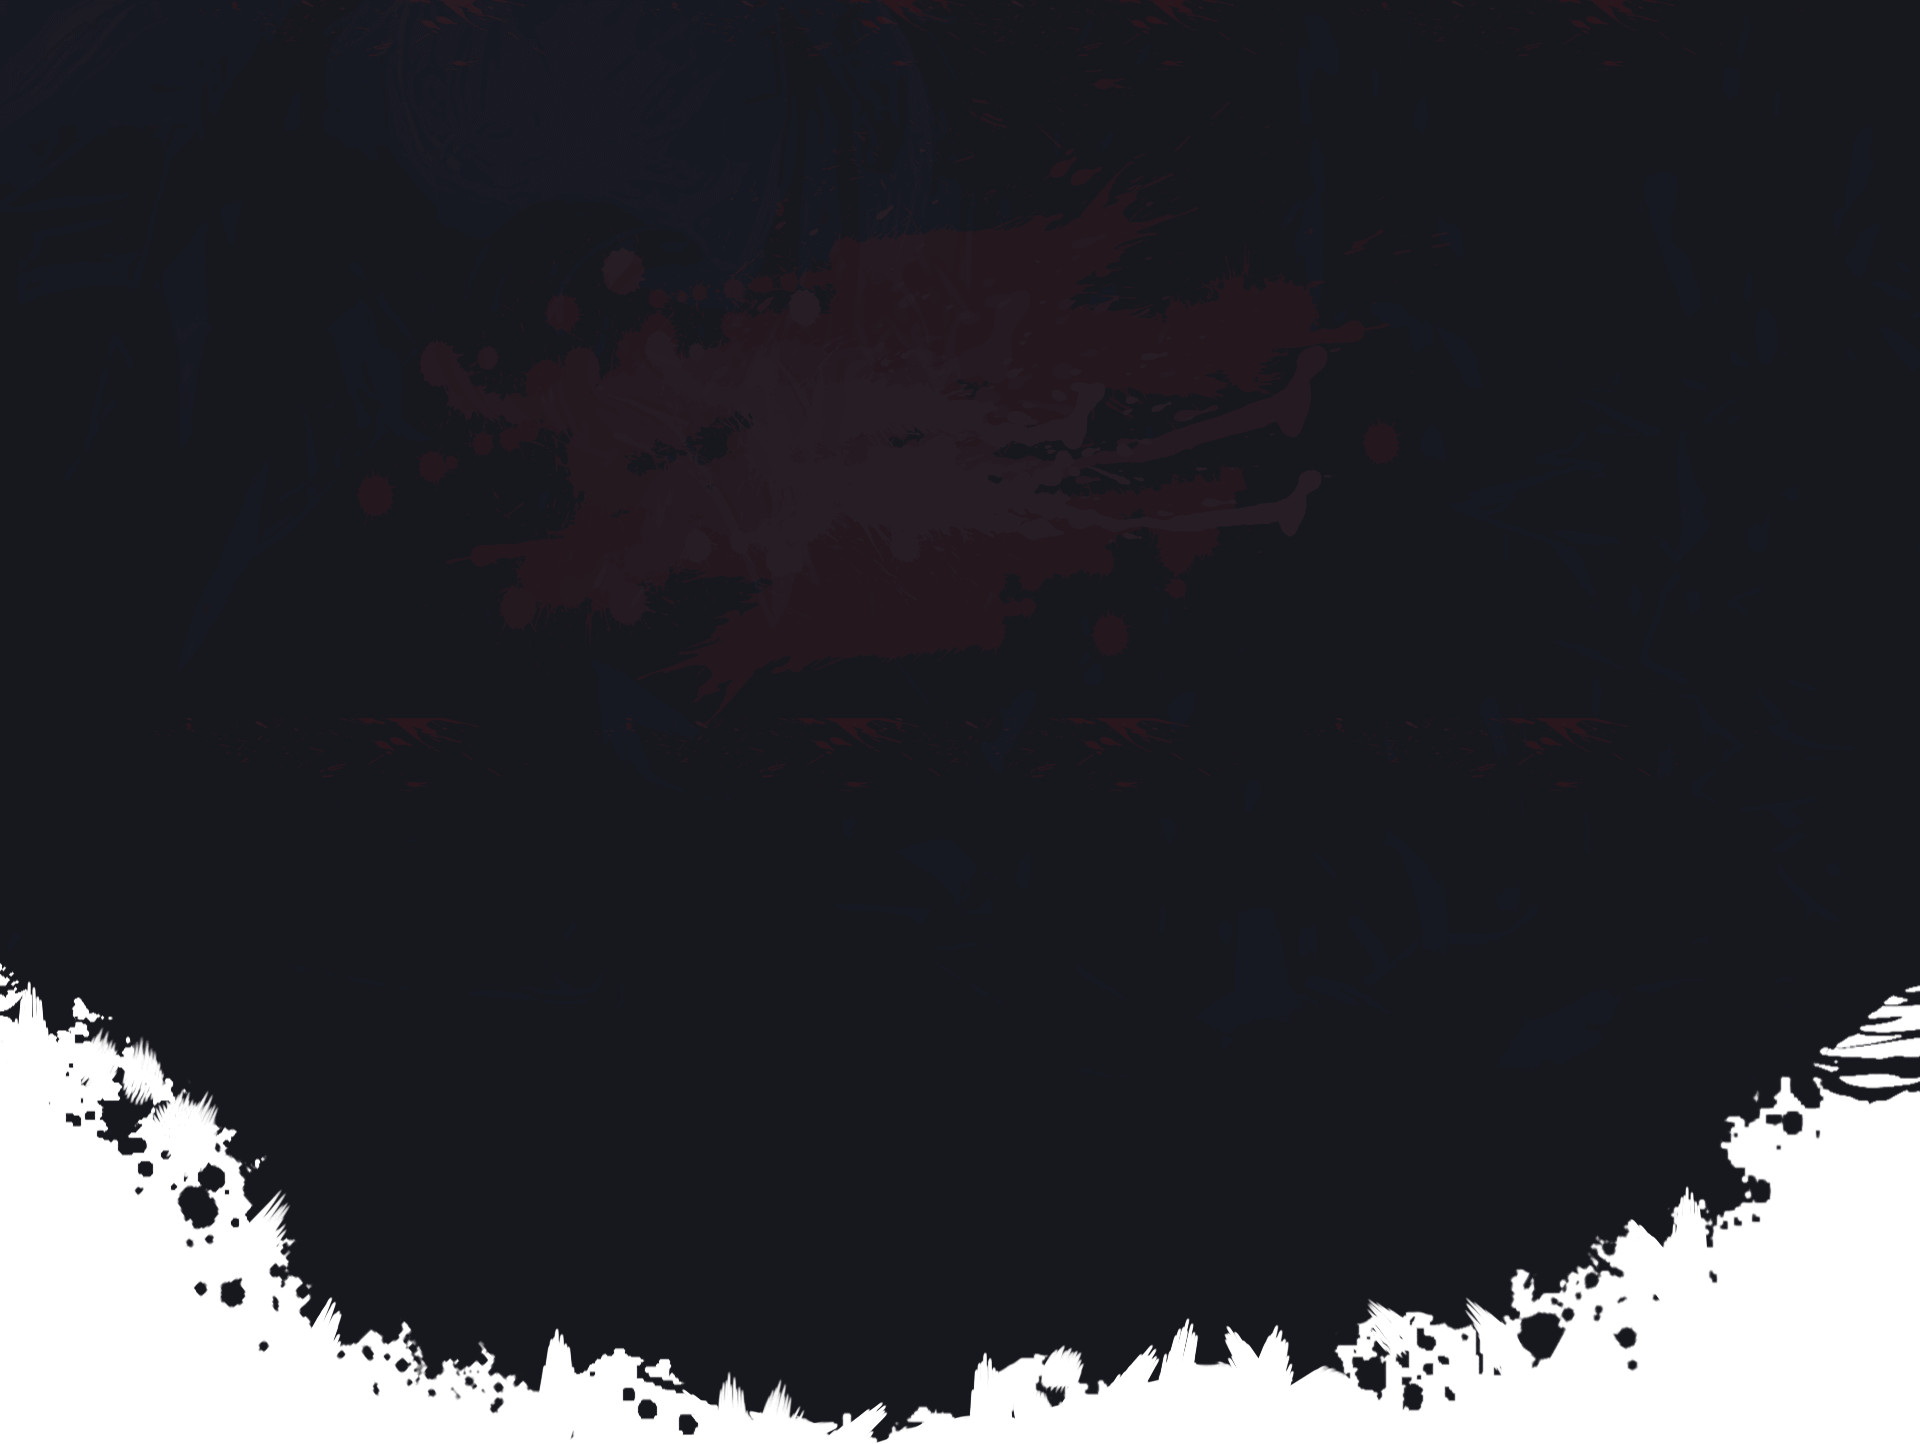
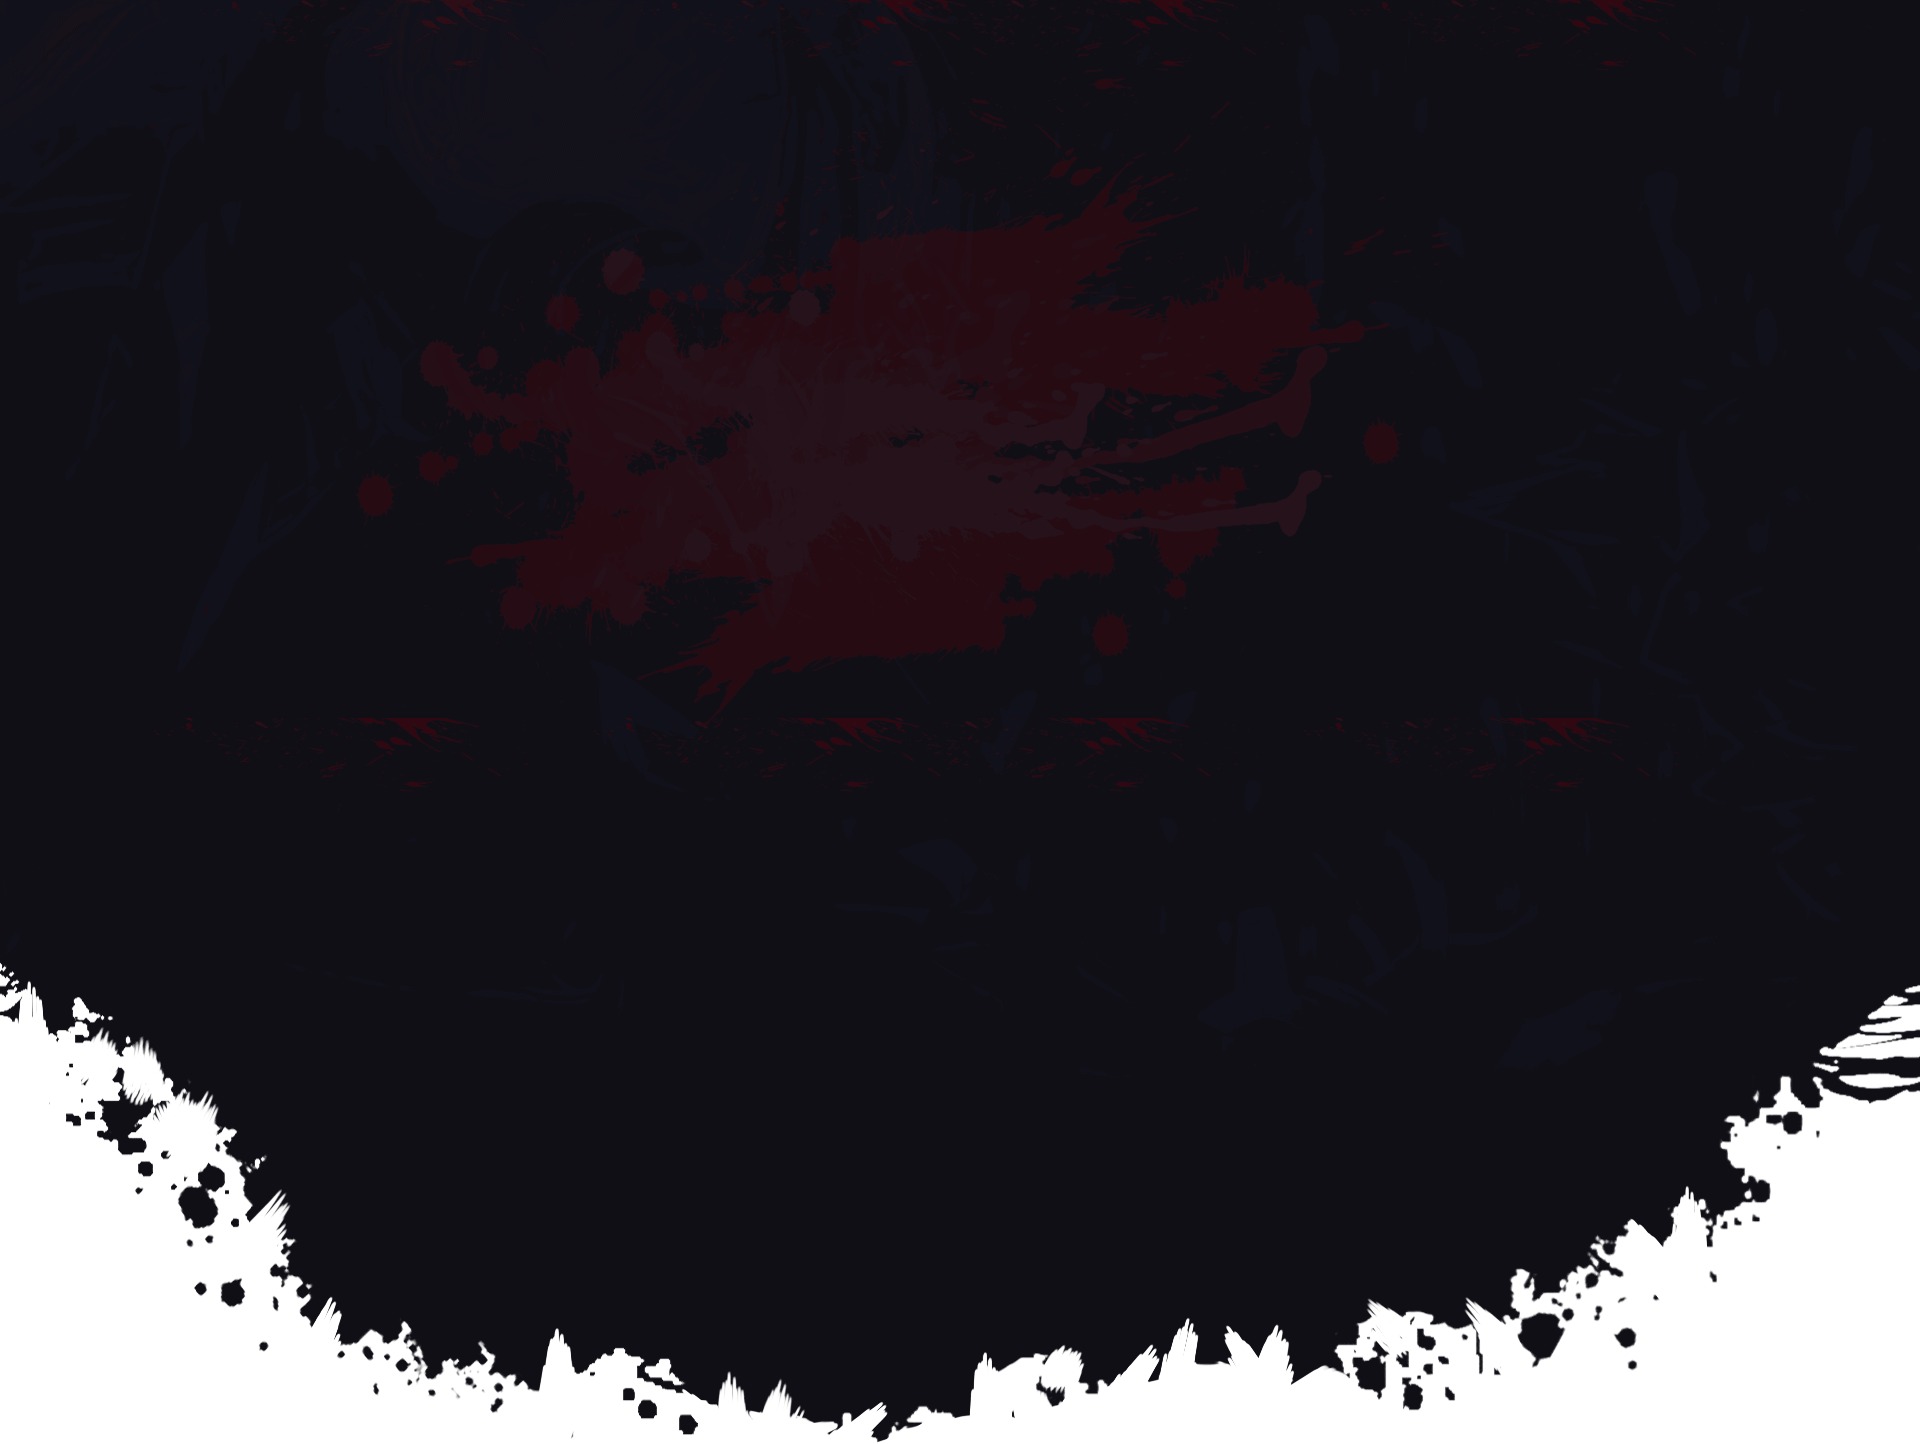
color scheme changed to red

diff --git a/style.css b/style.css
@@ -17,7 +17,7 @@
 :root {
 
   /**
-   * colors
+   * colors note for Jatin(color scheme changed to red if you want you can revert changes at line 38)
    */
 
   --rich-black-fogra-29_95: hsla(222, 18%, 11%, 0.95);
@@ -35,7 +35,7 @@
   --marigold_75: hsla(42, 99%, 46%, 0.75);
   --xiketic_90: hsla(280, 37%, 8%, 0.9);
   --cultured-2: hsl(0, 0%, 97%);
-  --marigold: hsl(42, 99%, 46%);
+  --marigold: hsl(0, 99%, 46%);
   --platinum: hsl(0, 0%, 89%);
   --dim-gray: hsl(0, 0%, 42%);
   --white_15: hsla(0, 0%, 100%, 0.15);
@@ -269,7 +269,7 @@ body {
 }
 
 .section-title::after {
-  content: url("../images/title-underline.png");
+  content: url("assets/images/title-underline.png");
   position: absolute;
   top: 100%;
   left: 50%;
@@ -572,7 +572,7 @@ body {
   left: 0;
   width: 100%;
   height: 57%;
-  background-image: url("../images/section-wrapper-bg.png");
+  background-image: url("assets/images/section2-wrapper-bg.jpg");
   background-repeat: no-repeat;
   background-size: cover;
   background-position: center;
@@ -1395,7 +1395,7 @@ body {
 
   .header-top {
     display: block;
-    background-image: url("../images/header-top-bg.jpg");
+    background-image: url("assets/images/header-top-bg.jpg");
     background-repeat: no-repeat;
     background-size: cover;
     background-position: center;

diff --git a/script.js b/script.js
@@ -1,7 +1,4 @@
 'use strict';
-
-
-
 const navbar = document.querySelector("[data-navbar]");
 const navbarLinks = document.querySelectorAll("[data-nav-link]");
 const navbarToggler = document.querySelector("[data-nav-toggler]");
@@ -17,10 +14,6 @@ for (let i = 0; i < navbarLinks.length; i++) {
     navbarToggler.classList.remove("active");
   });
 }
-
-
-
-
 /**
  * search toggle
  */

diff --git a/index.html b/index.html
@@ -935,7 +935,7 @@
   <!-- 
     - custom js link
   -->
-  <script src="./assets/js/script.js" defer></script>
+  <script src="script.js" defer></script>
 
   <!-- 
     - ionicon link
